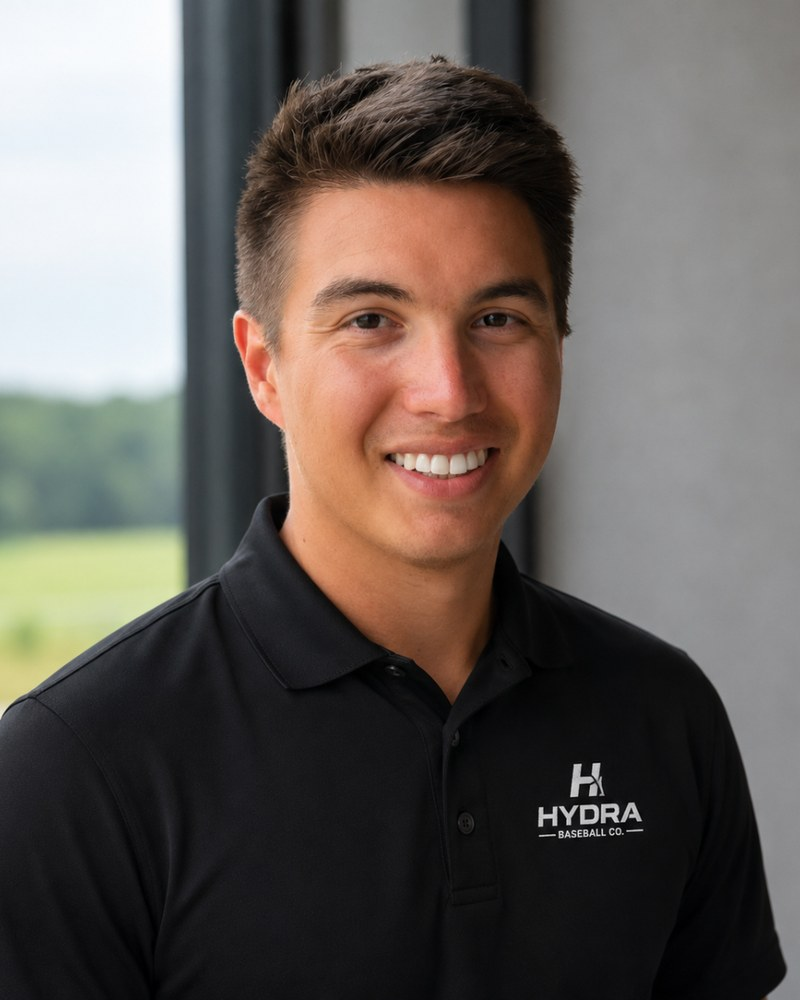
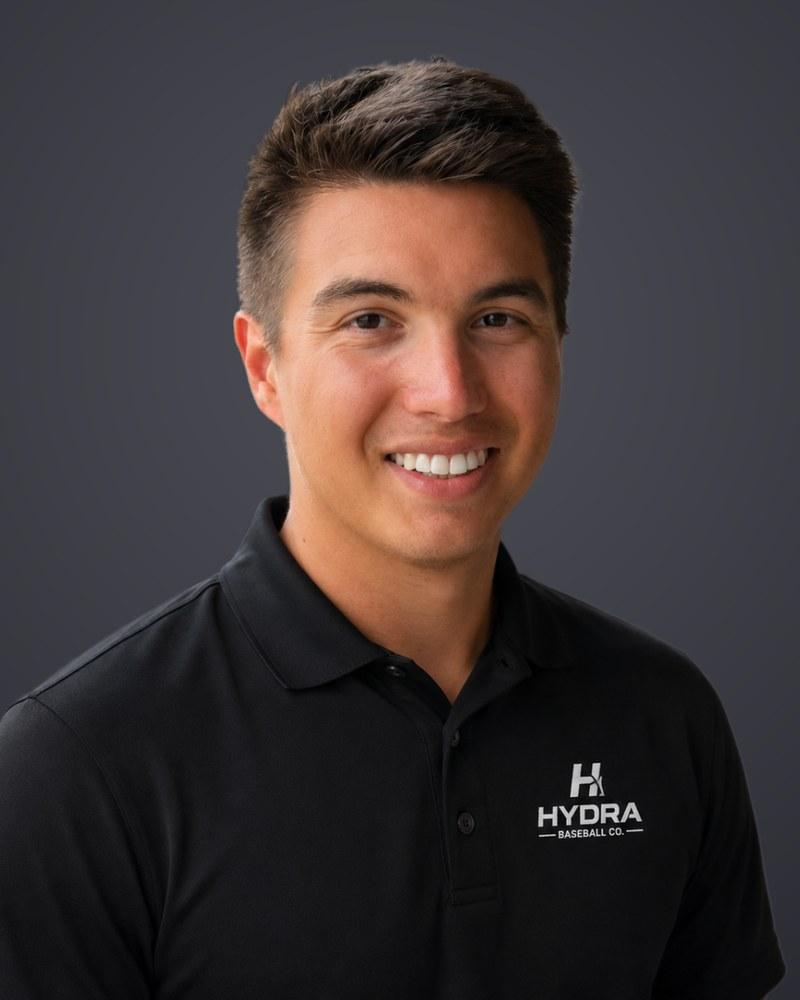
Set all three headshots on one backdrop
The three photos arrived from wherever each person happened to be
photographed — a grey studio wall, an office window with a field behind it, a
circular crop on black off a phone — and side by side on the grid those three
backgrounds were the first thing you saw, ahead of the three people. So each
person is now cut out of their own and set on the same studio sweep: lighter
behind the head, falling off to the corners, in the blue-leaning greys the
site is already built from. The photographs themselves aren't retouched, only
what's behind them.

tools/make-headshots.py does it, alongside the ball tools, reading the photos
as they arrived from public/images/team/src/ and writing the cards' 800x1000
frames. The cut-out is u2net_human_seg through rembg with alpha matting so
hair keeps its edge, pulled in a pixel and softened by a hair's width —
without that the old background survives as a bright rim, which reads worse
than a soft edge. Each person's crop is recorded in the tool, so a fourth
person joins the row by dropping their photo in and re-running it rather than
by matching a background by hand.

Claude-Session: https://claude.ai/code/session_01CyzeUU6TwcxPC8PVMbGKSp

diff --git a/tools/make-headshots.py b/tools/make-headshots.py
@@ -1,0 +1,113 @@
+"""Cut the front-office headshots out of the photos people send and set them
+all on one backdrop.
+
+Reads
+
+  public/images/team/src/<person>.<ext>   the photo as it arrived
+
+and writes
+
+  public/images/team/<person>.jpg         the card's 4:5 frame, 800x1000
+
+The photos arrive from wherever the person happened to be photographed — a
+grey studio wall, an office window with a field behind it, a circular crop on
+black off someone's phone. Side by side on the card grid those backgrounds are
+the first thing you see, ahead of the people, so each person is cut out of
+their own and set on the same studio sweep: lighter behind the head, falling
+off to the corners, in the blue-leaning greys the site is already built from.
+The photographs themselves aren't retouched — only what's behind them.
+
+The cut-out comes from u2net_human_seg through rembg, refined by alpha matting
+so hair keeps its edge, then pulled in a pixel and softened by a hair's width:
+without that the old background survives as a bright rim, which reads worse
+than a soft edge. The frame each person is cropped to is recorded per person
+below; it's chosen so the head sits at the same size in every card, and for
+Ari — whose photo is a disc, with his head close to its rim — so the bottom
+edge stays inside the disc, where the shirt was cut off.
+
+Needs pillow, numpy, rembg, onnxruntime and pymatting; the model downloads
+itself on the first run.
+
+    python3 tools/make-headshots.py            # from the repo root
+"""
+
+import os
+
+import numpy as np
+from PIL import Image, ImageFilter, ImageOps
+from rembg import new_session, remove
+
+SRC_DIR = 'public/images/team/src'
+OUT_DIR = 'public/images/team'
+
+# The 4:5 the card frames, at twice the width it ever renders at.
+CARD = (800, 1000)
+
+# The sweep behind everyone: the tone right behind the head, and the tone the
+# corners fall off to. Both sit in the site's ink range, blue-leaning, dark
+# enough to hold a black polo without swallowing it.
+BEHIND_HEAD = (76, 76, 84)
+CORNERS = (31, 31, 38)
+
+# Per person: the file that arrived, the crop taken from it, and whether the
+# photo needs its phone-screenshot bands removed first. Crops are in the
+# coordinates of the photo after that trim.
+PEOPLE = [
+    # Studio shot, head and shoulders already: the widest 4:5 the frame holds.
+    {'id': 'brandon-miller', 'src': 'brandon-miller.jpeg', 'crop': (144, 0, 942, 998)},
+    # Screenshot of a photo: bands off, then the widest 4:5 of what's left.
+    {'id': 'ben-hudock', 'src': 'ben-hudock.png', 'crop': (117, 0, 1053, 1170), 'debanded': True},
+    # A disc on black. The head nearly touches the rim, so the frame starts
+    # above the disc — fine, since he's cut out of it either way — and stops
+    # short of the bottom, where the disc cut his shirt off.
+    {'id': 'ari-heinemann', 'src': 'ari-heinemann.png', 'crop': (217, 40, 985, 1000)},
+]
+
+
+def backdrop(size):
+    """The studio sweep, at the size of the photo it goes behind."""
+    w, h = size
+    yy, xx = np.mgrid[0:h, 0:w].astype(np.float64)
+    # Distance from a point a little above centre — where a head sits.
+    d = np.hypot((xx - w * 0.5) / (w * 0.95), (yy - h * 0.34) / (h * 0.95))
+    t = np.clip(d, 0, 1) ** 1.25
+    near, far = np.array(BEHIND_HEAD, float), np.array(CORNERS, float)
+    return Image.fromarray((near + (far - near) * t[..., None]).round().astype(np.uint8))
+
+
+def matte(im, session):
+    """Alpha for the person alone."""
+    cut = remove(im, session=session, alpha_matting=True,
+                 alpha_matting_foreground_threshold=248,
+                 alpha_matting_background_threshold=12,
+                 alpha_matting_erode_size=8)
+    # A pixel in, so the background the person was shot against doesn't ride
+    # along as a rim, then softened so the cut isn't a paper edge.
+    return cut.getchannel('A').filter(ImageFilter.MinFilter(3)).filter(ImageFilter.GaussianBlur(0.8))
+
+
+def deband(im):
+    """Drop the black a phone screenshot pads the photo with."""
+    a = np.asarray(im.convert('L')).astype(int)
+    rows = np.where((a.max(axis=1) > 34) & (a.mean(axis=1) > 6))[0]
+    cols = np.where((a.max(axis=0) > 34) & (a.mean(axis=0) > 6))[0]
+    return im.crop((cols[0], rows[0], cols[-1] + 1, rows[-1] + 1))
+
+
+def main():
+    session = new_session('u2net_human_seg')
+    for person in PEOPLE:
+        im = ImageOps.exif_transpose(Image.open(os.path.join(SRC_DIR, person['src'])))
+        im = im.convert('RGB')
+        if person.get('debanded'):
+            im = deband(im)
+        set_on = backdrop(im.size)
+        set_on.paste(im, (0, 0), matte(im, session))
+        out = os.path.join(OUT_DIR, person['id'] + '.jpg')
+        card = set_on.crop(person['crop']).resize(CARD, Image.LANCZOS)
+        card.save(out, 'JPEG', quality=88, optimize=True, progressive=True)
+        print(f'{out}  {card.size[0]}x{card.size[1]}  {os.path.getsize(out) // 1024}KB')
+
+
+if __name__ == '__main__':
+    main()

diff --git a/public/images/team/README.md b/public/images/team/README.md
@@ -1,17 +1,33 @@
-# Crew photos
+# Front office photos
 
-Headshots for the **Front Office** section on the landing page. Drop a file in
-here and point the person's `photo` at it in the `TEAM` list at the top of
-`app/page.tsx` — that list is the only place the roster is edited.
+Headshots for the **Front Office** section on the landing page. The card's
+`photo` points at a file here — the roster itself is the `TEAM` list at the top
+of `app/page.tsx`, and that list is the only place it's edited.
+
+## Adding someone
+
+Drop the photo as it arrived into `src/`, named after the person
+(`ben-hudock.png`), add them to `PEOPLE` in `tools/make-headshots.py` with the
+4:5 crop you want taken from it, and run the tool from the repo root:
+
+```bash
+python3 tools/make-headshots.py
+```
+
+It writes `<person>.jpg` here at 800 × 1000 — the 4:5 the card frames, at twice
+the width it ever renders. Everyone comes out on the same studio sweep,
+whatever they were photographed against, which is the point: side by side on
+the grid, three different backgrounds read before the three people do. Don't
+hand-crop a headshot in here — a photo that skips the tool brings its own
+background with it and breaks the row.
 
 | | |
 |---|---|
-| **Name it** | after the person, lowercase and hyphenated: `ben-hudock.jpg` |
-| **Shape** | portrait, **4:5** (e.g. 800 × 1000). The card crops to 4:5 and anchors near the top of the frame, so leave a little room above the head |
-| **Format** | `.jpg` for photos (a `.png` works, it's just heavier) |
-| **Size** | ~800px wide is plenty — the card never renders larger than ~250px |
+| **Shape** | portrait, **4:5**. Leave a little room above the head; aim to match the head size in the cards already there |
+| **Format** | whatever came off the camera or phone goes in `src/`; the tool writes JPEG |
+| **Size** | anything from ~1000px up. The card never renders larger than ~270px wide |
 
-A person with no `photo` set shows their initials on the on-brand gradient
-instead, so someone can go up on the site the day they start and get their
-shot later. A `photo` that points at a file which isn't here yet falls back to
-that same gradient rather than a broken frame.
+A person with no `photo` set at all shows their initials on the card's gradient
+instead, so someone can go up the day they start and get their shot later. A
+`photo` pointing at a file that isn't here yet falls back to that same
+gradient rather than a broken frame.

diff --git a/public/images/README.md b/public/images/README.md
@@ -34,7 +34,7 @@ To swap the video, drop a web-friendly **H.264 MP4** at `public/videos/hero.mp4`
 | `ball-blank-horseshoe.jpg` | Same, when the logo is placed on the horseshoe | The Hydra wordmark cleared instead, since that's the spot the mark is taking — so the Hydra name moves down to the panel, where the `HYDRA / A1492` lockup is printed over the model mark. Fetched only when someone picks that placement. |
 | `panel-lockup.png` | Printed into `ball-blank-horseshoe.jpg` | The `HYDRA / A1492` lockup as flat artwork, black on transparent. Not served to the browser — it's an input to the tool below. |
 | `tray-plus.jpg` | _Currently unused_ | `hero-6.jpg` with the front-centre ball swapped for the A1492+, and the phone screenshot's black bands cropped off. Built by `tools/make-tray-plus.py`. Drop it in for `hero-6.jpg` in `.difference__media` to put the game ball in that panel. |
-| `team/*.jpg` | "Front Office" | One headshot per person, 4:5 portrait, named after them (`ben-hudock.jpg`). See `team/README.md` — the roster itself lives in the `TEAM` list in `app/page.tsx`. |
+| `team/*.jpg` | "Front Office" | One headshot per person, 4:5 portrait, named after them (`ben-hudock.jpg`). Built from `team/src/` by `tools/make-headshots.py`, which cuts each person out of whatever they were photographed against and sets them all on one studio sweep. See `team/README.md`; the roster itself lives in the `TEAM` list in `app/page.tsx`. |
 | `players.jpg` | _Currently unused_ | Was the quote band background; that section has been removed. |
 
 Both blanks are generated from `ball.jpg` by `tools/make-ball-blank.py` (`python3
